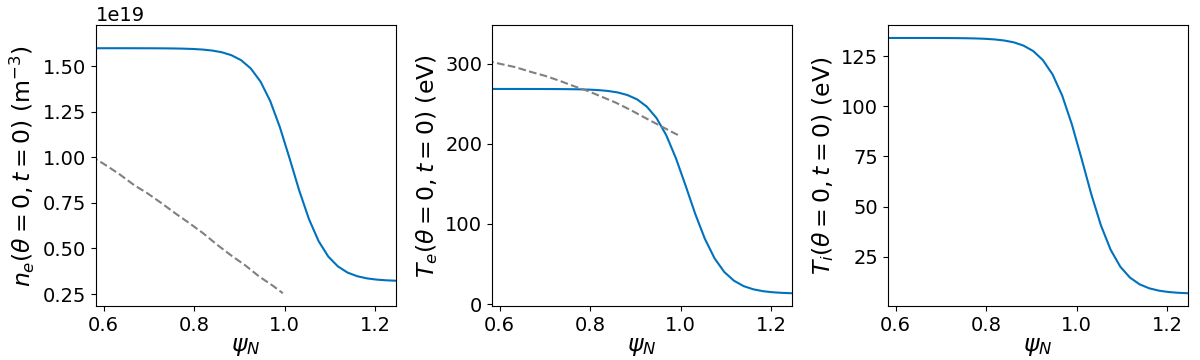
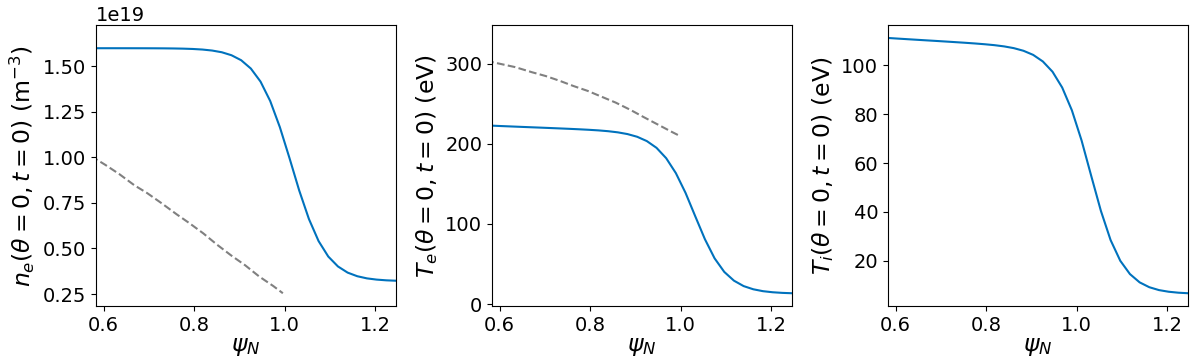
Update gkeyll li863mg base init plots.

diff --git a/gkeyll/postprocess_gkeyll_ltx_2x.py b/gkeyll/postprocess_gkeyll_ltx_2x.py
@@ -22,7 +22,7 @@ import ltx_common_util as lcu
 #[ Plotting options.
 plot_grid_RZ          = False  #[ Grid on RZ plane.
 plot_vs_x             = False  #[ A quantity at the outboard midplane.
-plot_nT_vs_x          = False  #[ Sensity and temperature profiles vs. x.
+plot_nT_vs_x          = True  #[ Sensity and temperature profiles vs. x.
 plot_src_mom_vs_x     = False  #[ Source moments vs. x.
 plot_src_int_mom_vs_t = False  #[ Source integrated moments vs. t.
 plot_vs_RZ            = False  #[ A quantity at the R-Z midplane.
@@ -35,8 +35,8 @@ out_data_dir  = './data/'
 out_fig_dir   = './figures/'
 output_prefix = 'ltx_gkeyll_'
 
-save_data          = False    #[ Indicate whether to save data in plot to HDF5 file.
-out_figure_file    = False     #[ Output a figure file?.
+save_data          = True    #[ Indicate whether to save data in plot to HDF5 file.
+out_figure_file    = True     #[ Output a figure file?.
 figure_file_format = '.png'    #[ Can be .png, .pdf, .ps, .eps, .svg.
 
 sim_name   = 'gk_ltx_iwl_2x2v_p1'      #[ Root name of files to process.
@@ -259,11 +259,12 @@ if plot_vs_x:
   x_axis_psi_N = True #[ Whether to put x-axis in rho_pol.
 
   quant      = 'elc_BiMaxwellianMoments' #[ Quantity to plot.
-  quant_comp = 'temp'                    #[ Component in file (den, upar, tpar, tperp, temp, or an int).
-  scale_fac  = lcu.mass_elc/lcu.eV               #[ Factor to multiply data by.
-#  ylabel     = r'$n_e(\theta=0,t=0)$ (m$^{-3}$)'       #[ Label for y axis.
+  quant_comp = 'den'                    #[ Component in file (den, upar, tpar, tperp, temp, or an int).
+  scale_fac  = 1.0               #[ Factor to multiply data by.
+#  scale_fac  = lcu.mass_elc/lcu.eV               #[ Factor to multiply data by.
+  ylabel     = r'$n_e(\theta=0,t=0)$ (m$^{-3}$)'       #[ Label for y axis.
 #  ylabel     = r'$u_{\parallel e}(\theta=0,t=0)$ (m/s)'       #[ Label for y axis.
-  ylabel     = r'$T_e(\theta=0,t=0)$ (eV)'       #[ Label for y axis.
+#  ylabel     = r'$T_e(\theta=0,t=0)$ (eV)'       #[ Label for y axis.
   frame      = 0                         #[ Frame number.
 
   fig_file_name_root = lcu.li863_prefix+'init_elc_den'
@@ -369,17 +370,17 @@ if plot_nT_vs_x:
   x_axis_psi_N = True #[ Whether to put x-axis in rho_pol.
   plot_exp_data = True #[ Whether to plot experimental data.
   
-  frame = 14   #[ Frame number.
+  frame = 0   #[ Frame number.
   y_labels = [
-#    r'$n_e(\theta=0,t=0)$ (m$^{-3}$)',
-#    r'$T_e(\theta=0,t=0)$ (eV)',
-#    r'$T_i(\theta=0,t=0)$ (eV)',
-    r'$n_e(\theta=0,t=0.7~\mathrm{ms})$ (m$^{-3}$)',
-    r'$T_e(\theta=0,t=0.7~\mathrm{ms})$ (eV)',
-    r'$T_i(\theta=0,t=0.7~\mathrm{ms})$ (eV)',
+    r'$n_e(\theta=0,t=0)$ (m$^{-3}$)',
+    r'$T_e(\theta=0,t=0)$ (eV)',
+    r'$T_i(\theta=0,t=0)$ (eV)',
+#    r'$n_e(\theta=0,t=0.7~\mathrm{ms})$ (m$^{-3}$)',
+#    r'$T_e(\theta=0,t=0.7~\mathrm{ms})$ (eV)',
+#    r'$T_i(\theta=0,t=0.7~\mathrm{ms})$ (eV)',
   ]
 
-  fig_file_name_root = lcu.li863_prefix+'final_den_temp'
+  fig_file_name_root = lcu.li863_prefix+'init_den_temp'
 
   plotz = 0.0 #[ Computational z coordinate to plot at.
 
@@ -705,18 +706,18 @@ if plot_vs_RZ:
 
   data_dir = '/pscratch/sd/m/mana/gkeyll/ltx/2d/li863mg_103955_04-base/'
 
-  quant      = 'ion_BiMaxwellianMoments' #[ Quantity to plot.
-  quant_comp = 'temp'                    #[ Component in file (den, upar, tpar, tperp, temp, or an int).
-#  scale_fac  = 1.0               #[ Factor to multiply data by.
-  scale_fac  = lcu.mass_ion/lcu.eV               #[ Factor to multiply data by.
-#  zlabel     = r'$n_e(t=0.7~\mathrm{ms})$ (m$^{-3}$)'       #[ Label for y axis.
+  quant      = 'elc_BiMaxwellianMoments' #[ Quantity to plot.
+  quant_comp = 'den'                    #[ Component in file (den, upar, tpar, tperp, temp, or an int).
+  scale_fac  = 1.0               #[ Factor to multiply data by.
+#  scale_fac  = lcu.mass_ion/lcu.eV               #[ Factor to multiply data by.
+  zlabel     = r'$n_e(t=0)$ (m$^{-3}$)'       #[ Label for y axis.
 #  zlabel     = r'$u_{\parallel i}(t=0.7~\mathrm{ms})$ (km/s)'       #[ Label for y axis.
 #  zlabel     = r'$T_{\parallel e}(t=0.7~\mathrm{ms})$ (eV)'       #[ Label for y axis.
 #  zlabel     = r'$T_{\perp e}(t=0.7~\mathrm{ms})$ (eV)'       #[ Label for y axis.
-  zlabel     = r'$T_{i}(t=0.7~\mathrm{ms})$ (eV)'       #[ Label for y axis.
-  frame      = 14                         #[ Frame number.
+#  zlabel     = r'$T_{i}(t=0.7~\mathrm{ms})$ (eV)'       #[ Label for y axis.
+  frame      = 0                         #[ Frame number.
 
-  fig_file_name_root = lcu.li863_prefix+'final_ion_temp_RZ'
+  fig_file_name_root = lcu.li863_prefix+'init_elc_den_RZ'
 
   wall_file = '/global/homes/m/mana/perlmutter/gkeyll/code/gkyl-sims/ltx_gkeyll_xgc/experiment/LTXvessel.csv'
 
